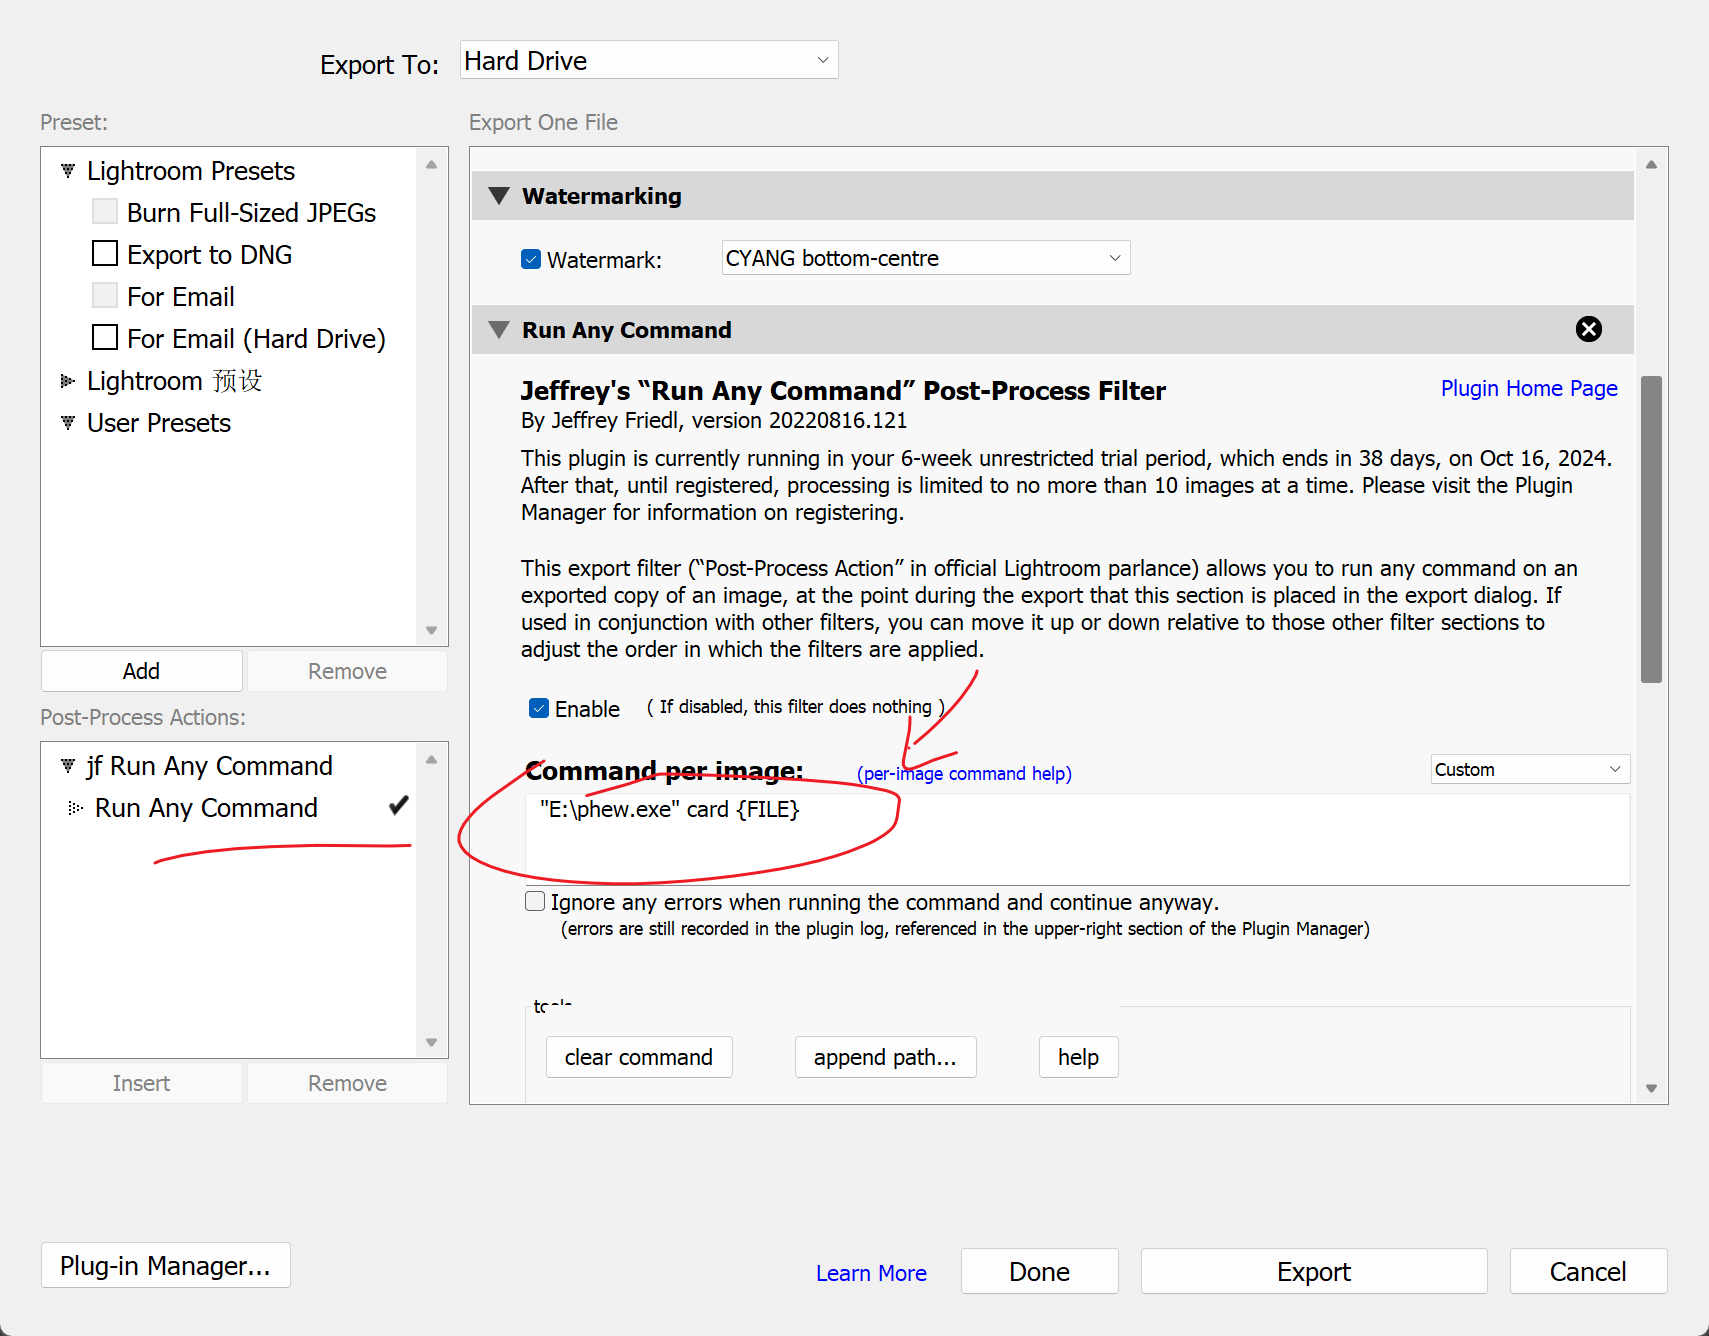
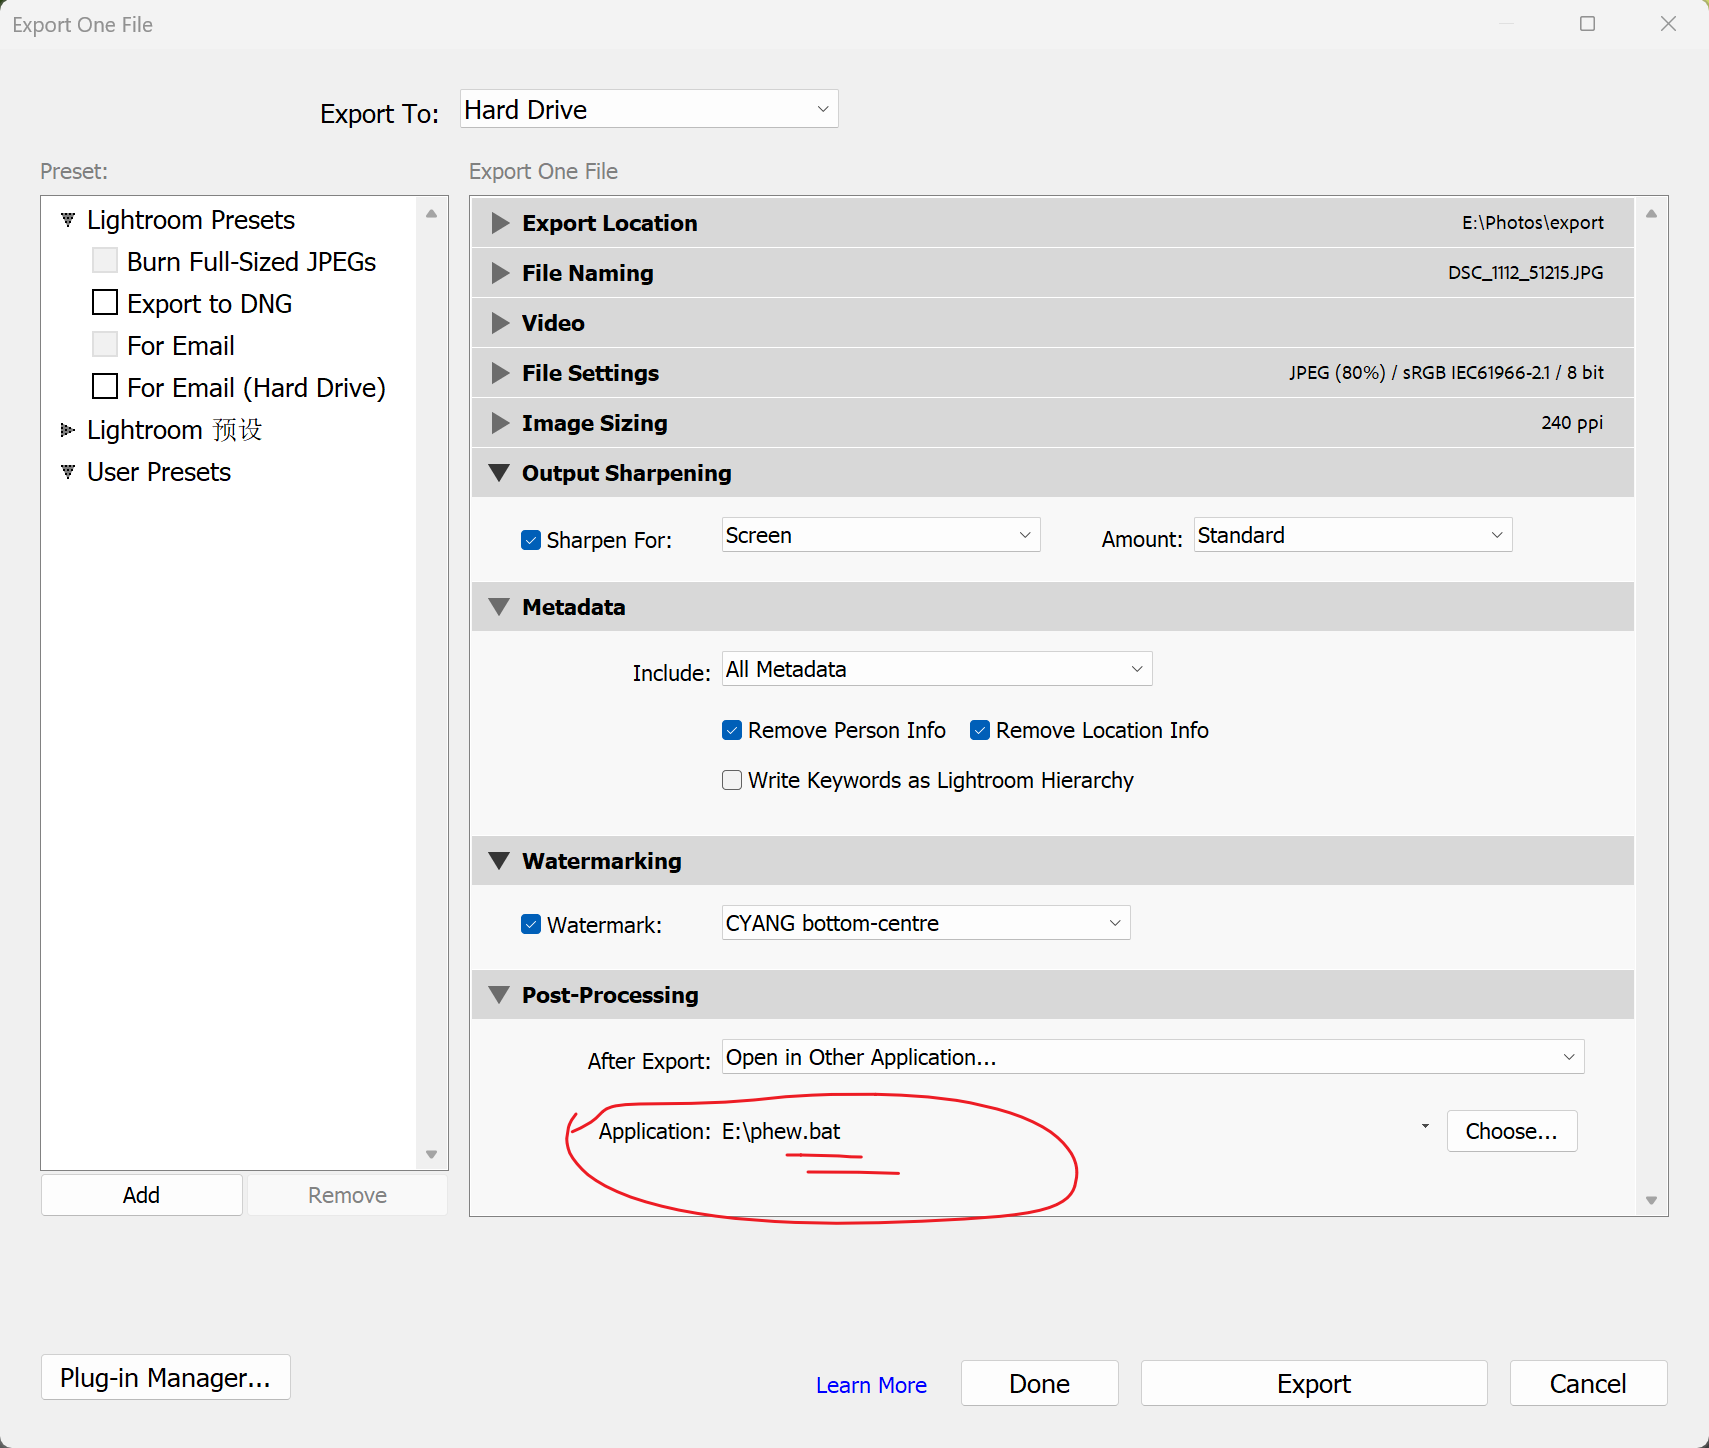
avoid to use Any Command plugin

diff --git a/README.md b/README.md
@@ -41,13 +41,13 @@ render({
 
 ```
 
-
 - Lightroom
 
-In `Export` dialog, set the command through `Any Command`
+In `Export` dialog, the last section `Post-Pocessing`, select `Open in Other Application...`, set the bat script `phew.bat`.
+
+Then you can edit `phew.bat` as you need to customise the parameters: layout, other tweaks etc.
 
 ![lightroom.png](lightroom.png)
-
 
 ## Examples
 
